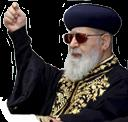
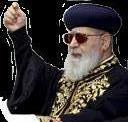
asdad

diff --git a/OvaidaPro/bundles/bundle.js b/OvaidaPro/bundles/bundle.js
@@ -18339,6 +18339,19 @@ OvadiaApp.controller('ImagesCntrl', ['$scope', '$http', '$timeout', 'Upload','ng
             });
         }
 
+        $scope.Rotate90 = function (fname) {
+            $scope.loader = true;
+            $http.get("/Uploads/Rotate90?fname=" + fname).then(function (response) {
+                if (response.ErrorCode == 0) {
+                    //
+                }
+                else {
+                    //
+                }
+                $scope.loader = false;
+            });
+        }
+
         $scope.uploadFiles = function (files, errFiles) {
             $scope.files = files;
             $scope.errFiles = errFiles;
@@ -18986,6 +18999,13 @@ OvadiaApp.controller('addMovieCtrl', ['$scope',
                 }
                 $scope.loader = false;
             });
+        }
+
+        $scope.NewArticle = function () {
+            $scope.isNewArticle = true;
+            $scope.articleId = null;
+            $scope.Article = {};
+            $scope.ArticleCat = "";
         }
 
         $scope.RemoveArticleById = function () {

diff --git a/OvaidaPro/Scripts/OvadiaApp/Admin/Movies/add-movie/add-movie.html b/OvaidaPro/Scripts/OvadiaApp/Admin/Movies/add-movie/add-movie.html
@@ -4,7 +4,7 @@
 <div class="list-group-item list-group-item-home">
     <form name="movieForm" role="form" novalidate>
         <div ng-hide="loader">
-            <a  ng-click="backToCategory()" ng-show="showBackButton">< חזרה לקטגוריה </a>   
+            <a href="" ng-click="backToCategory()" ng-show="showBackButton">< חזרה לקטגוריה </a>   
             <fieldset>
                 <legend ng-if="!isNewArticle && !readOnly">עריכת מאמר</legend>
                 <legend ng-if="isNewArticle && !readOnly">יצירת מאמר</legend>
@@ -86,6 +86,9 @@
             </button>
             <button ng-hide="isNewArticle" class="btn btn-danger btn-block" ng-click="RemoveArticleById()">
                 הסר מאמר
+            </button>
+            <button ng-hide="isNewArticle" class="btn btn-success btn-block" ng-click="NewArticle()">
+                התחל מאמר חדש
             </button>
         </div>
         <div ng-show="loader" class="loader1">

diff --git a/OvaidaPro/Scripts/OvadiaApp/Admin/ng-file-model/ng-file-model.js b/OvaidaPro/Scripts/OvadiaApp/Admin/ng-file-model/ng-file-model.js
@@ -40,6 +40,19 @@
             });
         }
 
+        $scope.Rotate90 = function (fname) {
+            $scope.loader = true;
+            $http.get("/Uploads/Rotate90?fname=" + fname).then(function (response) {
+                if (response.ErrorCode == 0) {
+                    //
+                }
+                else {
+                    //
+                }
+                $scope.loader = false;
+            });
+        }
+
         $scope.uploadFiles = function (files, errFiles) {
             $scope.files = files;
             $scope.errFiles = errFiles;

diff --git a/OvaidaPro/Scripts/OvadiaApp/Admin/Movies/add-movie/add-movie.js b/OvaidaPro/Scripts/OvadiaApp/Admin/Movies/add-movie/add-movie.js
@@ -136,6 +136,13 @@
             });
         }
 
+        $scope.NewArticle = function () {
+            $scope.isNewArticle = true;
+            $scope.articleId = null;
+            $scope.Article = {};
+            $scope.ArticleCat = "";
+        }
+
         $scope.RemoveArticleById = function () {
             if (!movieForm.checkValidity()) {
                 $scope.OpenPopup("שדות חובה לא מולאו!", "אנא מלא את השדות המסומנות באדום בערכים מתאימים");

diff --git a/OvaidaPro/Scripts/OvadiaApp/Admin/ng-file-model/ng-file-model.html b/OvaidaPro/Scripts/OvadiaApp/Admin/ng-file-model/ng-file-model.html
@@ -29,6 +29,7 @@
                                       ng-bind="f.progress + '%'"></span>
                             </span>
                             <button class="btn btn-danger removeButton" ng-click="DeleteFile(f.Name);">הסר</button>
+                            <i class="fa fa-repeat rotateIcon" aria-hidden="true" ng-click="Rotate90(f.Name);"></i>
                         </div>
                     </div>
 

diff --git a/OvaidaPro/Scripts/OvadiaApp/my-app/my-app.css b/OvaidaPro/Scripts/OvadiaApp/my-app/my-app.css
@@ -63,6 +63,17 @@ div, p, h1, h2, h3, h4, h5, h6, span {
     top: -163px;
     right: 4px;
 }
+.rotateIcon {
+    position: relative;
+    top: -163px;
+    right: 19px;
+    font-size: 23px;
+    color: #fff;
+    padding: 6px;
+    border-radius: 20px;
+    background: #009200;
+    cursor:pointer;
+}
 .scrollable-content .imgItems-li {
     display:inline-block;
 }

diff --git a/OvaidaPro/Scripts/OvadiaApp/Admin/ng-file-model/ng-file-model.css b/OvaidaPro/Scripts/OvadiaApp/Admin/ng-file-model/ng-file-model.css
@@ -5,6 +5,7 @@ h4 {
     color: #686868;
     font-weight: bold;
 }
+
 .imgItems-li {
 display:inline-block;
 }

diff --git a/OvaidaPro/Controllers/UploadsController.cs b/OvaidaPro/Controllers/UploadsController.cs
@@ -165,12 +165,73 @@ namespace OvaidaPro.Controllers
             var serializedResult = serializer.Serialize(resultToClient);
             context.Response.Write(serializedResult);
         }
+
+        public void Rotate90(string fname)
+        {
+            isAllow();
+
+            HttpContext context = System.Web.HttpContext.Current;
+            Result resultToClient = new Result();
+            string output = string.Empty;
+
+            DirectoryInfo dirInfo = new DirectoryInfo(System.AppDomain.CurrentDomain.BaseDirectory + "\\Uploads");
+            FileInfo[] info = dirInfo.GetFiles("*.*");
+
+            try
+            {
+                foreach (FileInfo f in info)
+                {
+
+                    if (fname.Equals(f.Name) || ("sm_" + fname).Equals(f.Name) || ("lg_" + fname).Equals(f.Name))
+                    {
+                        //string item = "/Uploads/" + f.Name;
+                        string saveName = f.FullName;
+
+                        using (Image img = Image.FromFile(f.FullName))
+                        {
+                            //rotate the picture by 90 degrees and re-save the picture as a Jpeg
+                            img.RotateFlip(RotateFlipType.Rotate90FlipNone);
+                            img.Save(saveName, ImageFormat.Jpeg);
+                        }
+
+                    }
+
+                }
+                resultToClient.ErrorCode = 0;
+                resultToClient.Data = true;
+            }
+            catch(Exception ex)
+            {
+                resultToClient.ErrorCode = 1;
+                resultToClient.Data = false;
+            }
+          
+
+            responseJsonFromServer(context);
+            var serializer = new JavaScriptSerializer();
+            var serializedResult = serializer.Serialize(resultToClient);
+            context.Response.Write(serializedResult);
+        }
+
+      
         public void responseJsonFromServer(HttpContext context)
         {
             context.Response.ContentType = "application/json";
             context.Response.AppendHeader("Cache-Control", "no-cache, no-store, must-revalidate");
             context.Response.AppendHeader("Pragma", "no-cache");
             context.Response.AppendHeader("Expires", "0");
+        }
+
+
+        private Bitmap rotateImage90(Bitmap b)
+        {
+            Bitmap returnBitmap = new Bitmap(b.Height, b.Width);
+            Graphics g = Graphics.FromImage(returnBitmap);
+            g.TranslateTransform((float)b.Width / 2, (float)b.Height / 2);
+            g.RotateTransform(90);
+            g.TranslateTransform(-(float)b.Width / 2, -(float)b.Height / 2);
+            g.DrawImage(b, new Point(0, 0));
+            return returnBitmap;
         }
 
         private Bitmap ResizeBitmap(Bitmap b, int nWidth, int nHeight)
@@ -180,6 +241,8 @@ namespace OvaidaPro.Controllers
                 g.DrawImage(b, 0, 0, nWidth, nHeight);
             return result;
         }
+
+
 
         [Serializable]
         public class FileNames
